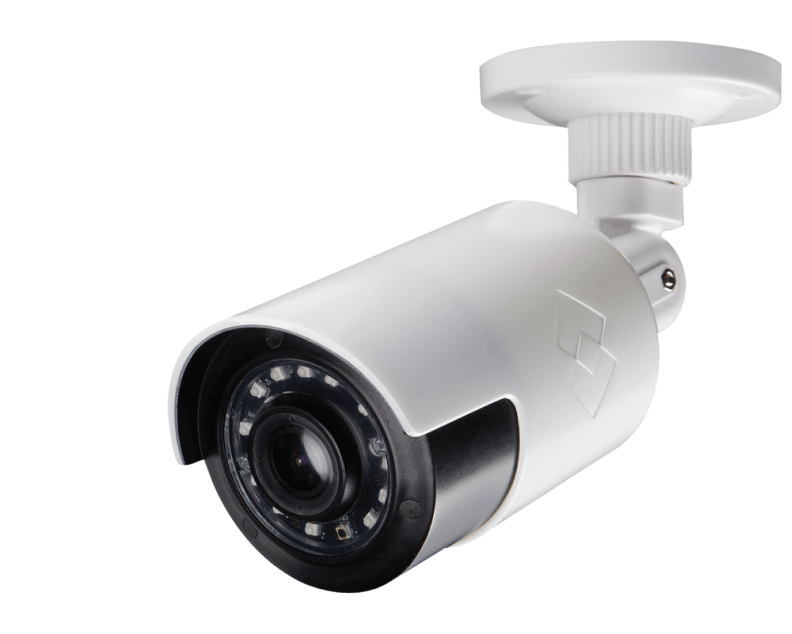
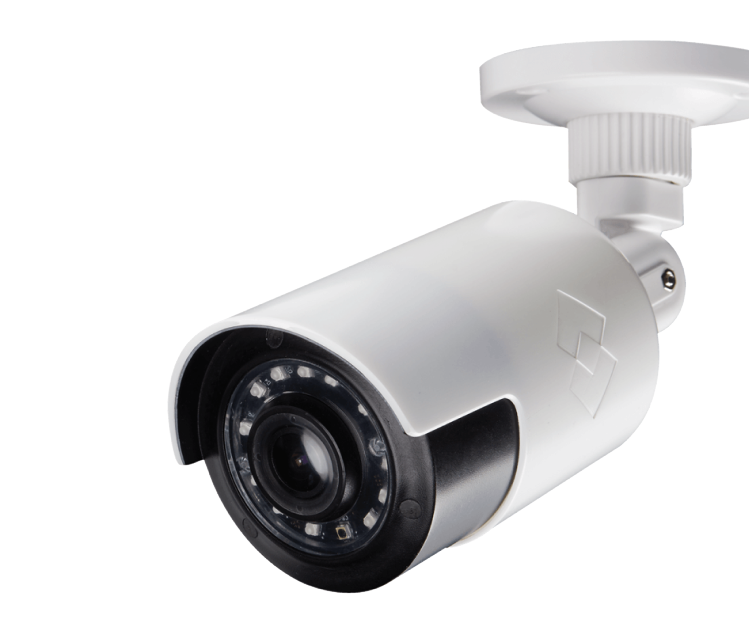
Changed the online calculator section

diff --git a/index.html b/index.html
@@ -504,8 +504,8 @@
                         <div class="mrk-mb-float-subtitle">Осуществляем монтаж в день обращения</div>
                     </div>
                     <div class="mrk-mb-btm-btn">
-                        <div class="mrk-mb-title">Быстрый расчет</div>
-                        <div class="mrk-mb-prg">Мы написали классный калькулятор для смет, поэтому свой расчет вы получите максимально быстро</div>
+                        <div class="mrk-mb-title">Online калькулятор</div>
+                        <!-- <div class="mrk-mb-prg">Мы написали классный калькулятор для смет, поэтому свой расчет вы получите максимально быстро</div> -->
                         <a href="#calculator" class="mrk-mb-red-btn">сделать расчет</a>
                     </div>
                 </div>

diff --git a/inteco-sb-hp.css b/inteco-sb-hp.css
@@ -937,7 +937,7 @@ img {
 }
 
 .bnr-mb-btn.price {
-    animation: jump 1s ease-in-out infinite;
+    animation: jump 1.5s ease-in-out infinite;
     transition: transform 0.5s ease-in-out;
     box-shadow: 0 0.3em 0.3em 0 rgba(0, 0, 0, 0.25);
 }
@@ -1904,7 +1904,7 @@ h4.about-mb-subtitle {
 
 .camera-mb-main-img {
     position: absolute;
-    top: 5%;
+    top: 10%;
     height: calc(var(--bnr-mb-float-right-width) * 2.8);
     width: calc(var(--bnr-mb-btn-group-width) * 2);
 }
@@ -2954,6 +2954,10 @@ h4.about-mb-subtitle {
     }
     
     #call-us-form-contacts {
+        display: none;
+    }
+
+    .calculation {
         display: none;
     }
 }
